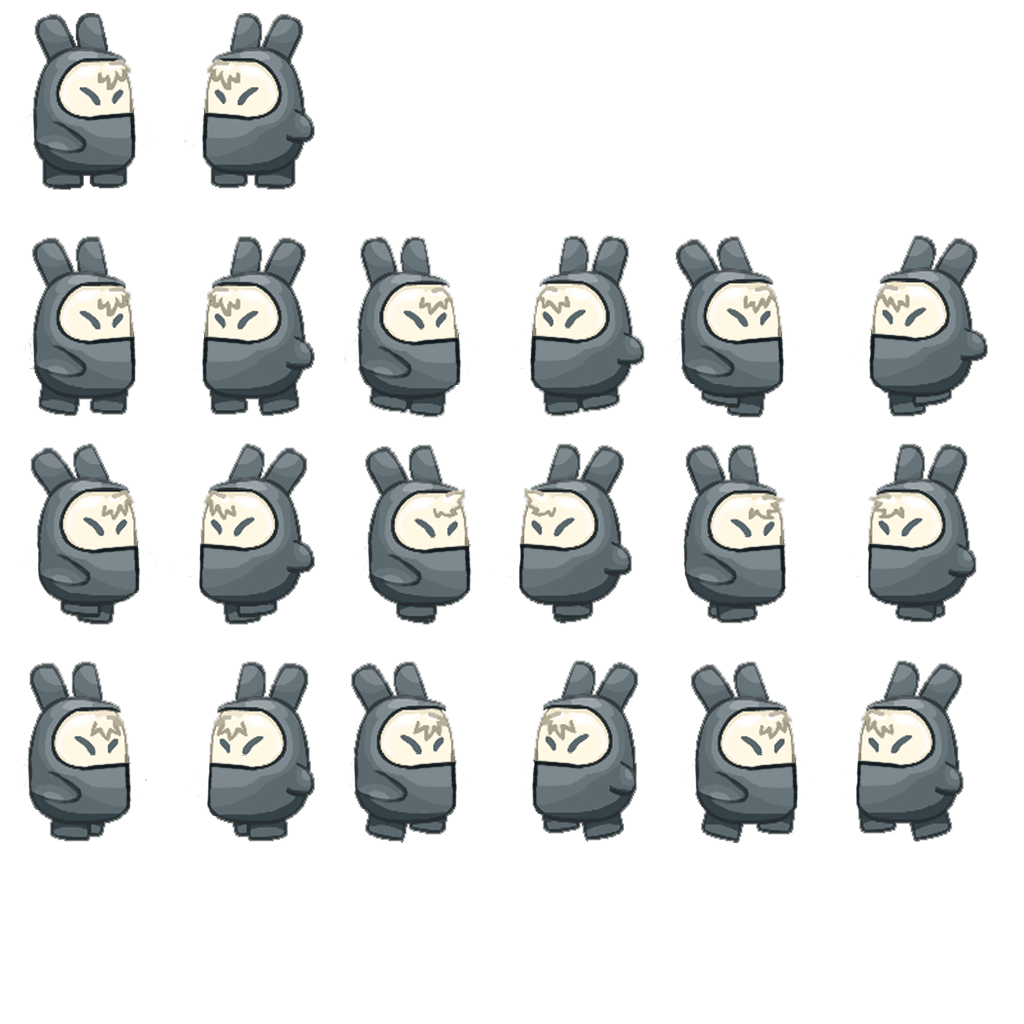
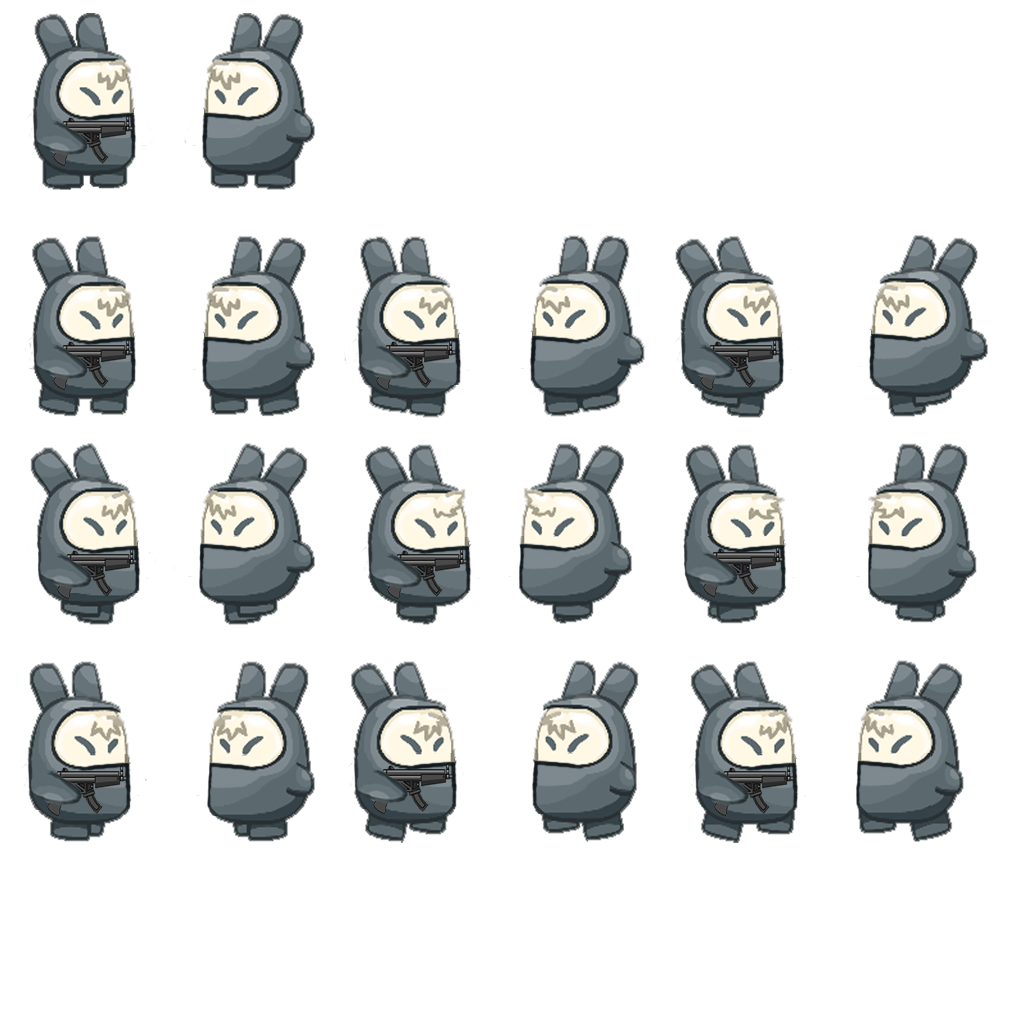
Added new gun

diff --git a/core/src/com/cypress/GameObjects/Bullet.kt b/core/src/com/cypress/GameObjects/Bullet.kt
@@ -34,7 +34,8 @@ public class Bullet(private val character : Character) {
             assets.gunsNames[2] -> {startPos.y += 80; bounds.setSize(50f, 26f)}
             assets.gunsNames[3] -> {startPos.y += 80; bounds.setSize(52f, 16f)}
             assets.gunsNames[4] -> {startPos.y += 75; bounds.setSize(52f, 38f)}
-            assets.gunsNames[5] -> {startPos.y += 85; bounds.setSize(128f, 32f)}
+            assets.gunsNames[5] -> {startPos.y += 55; bounds.setSize(50f, 26f)}
+            assets.gunsNames[6] -> {startPos.y += 85; bounds.setSize(128f, 32f)}
         }
 
         if (character.shouldGoToRight || character.stayRight) {
@@ -44,7 +45,8 @@ public class Bullet(private val character : Character) {
                 assets.gunsNames[2] -> {startPos.x += 200; bounds.setSize(50f, 26f)}
                 assets.gunsNames[3] -> {startPos.x += 175; bounds.setSize(52f, 16f)}
                 assets.gunsNames[4] -> {startPos.x += 170; bounds.setSize(52f, 38f)}
-                assets.gunsNames[5] -> {startPos.x += 160; bounds.setSize(128f, 32f)}
+                assets.gunsNames[5] -> {startPos.x += 160; bounds.setSize(50f, 26f)}
+                assets.gunsNames[6] -> {startPos.x += 160; bounds.setSize(128f, 32f)}
             }
             direction = 15f
 
@@ -52,7 +54,7 @@ public class Bullet(private val character : Character) {
             shotgunBullet   = TextureRegion(assets.bullets, 0, 37, 50, 42)
             rifleBullet     = TextureRegion(assets.bullets, 0, 88, 50, 26)
             plasmagunBullet = TextureRegion(assets.bullets, 0, 121, 52, 16)
-            lasergunBullet = TextureRegion(assets.bullets, 0, 145, 52, 38)
+            lasergunBullet  = TextureRegion(assets.bullets, 0, 145, 52, 38)
             rocket          = TextureRegion(assets.bullets, 0, 188, 128, 32)
         }
         else {
@@ -62,7 +64,8 @@ public class Bullet(private val character : Character) {
                 assets.gunsNames[2] -> {startPos.x -= 60; bounds.setSize(50f, 26f)}
                 assets.gunsNames[3] -> {startPos.x -= 65; bounds.setSize(52f, 16f)}
                 assets.gunsNames[4] -> {startPos.x -= 65; bounds.setSize(52f, 38f)}
-                assets.gunsNames[5] -> {startPos.x -= 105; bounds.setSize(128f, 32f)}
+                assets.gunsNames[5] -> {startPos.x -= 80; bounds.setSize(50f, 26f)}
+                assets.gunsNames[6] -> {startPos.x -= 105; bounds.setSize(128f, 32f)}
             }
             startPos.y -= 5
             direction = -15f
@@ -71,7 +74,7 @@ public class Bullet(private val character : Character) {
             shotgunBullet   = TextureRegion(assets.bullets, 78, 37, 50, 42)
             rifleBullet     = TextureRegion(assets.bullets, 78, 88, 50, 26)
             plasmagunBullet = TextureRegion(assets.bullets, 76, 121, 52, 16)
-            lasergunBullet = TextureRegion(assets.bullets, 76, 145, 52, 38)
+            lasergunBullet  = TextureRegion(assets.bullets, 76, 145, 52, 38)
             rocket          = TextureRegion(assets.bullets, 0, 224, 128, 32)
         }
 
@@ -95,7 +98,8 @@ public class Bullet(private val character : Character) {
             assets.gunsNames[2] -> batcher.draw(rifleBullet, position.x, position.y, 25f, 13f)
             assets.gunsNames[3] -> batcher.draw(plasmagunBullet, position.x, position.y, 26f, 8f)
             assets.gunsNames[4] -> batcher.draw(lasergunBullet, position.x, position.y, 26f, 16f)
-            assets.gunsNames[5] -> batcher.draw(rocket, position.x, position.y, 85f, 21f)
+            assets.gunsNames[5] -> batcher.draw(rifleBullet, position.x, position.y, 25f, 13f)
+            assets.gunsNames[6] -> batcher.draw(rocket, position.x, position.y, 85f, 21f)
         }
         batcher.end()
     }

diff --git a/core/src/com/cypress/CGHelpers/AssetLoader.kt b/core/src/com/cypress/CGHelpers/AssetLoader.kt
@@ -20,10 +20,11 @@ public class AssetLoader {
 
     public val levelsBG     = Array(9, { LinkedList<Texture?>() })
     public val levelsFP     = Array(9, { LinkedList<Texture?>() })
-    public val gunsNames    = arrayOf("uzi", "shotgun", "assaultRiffle", "plasmagun", "lasergun", "rocketLauncher")
+    public val gunsNames    = arrayOf("uzi", "shotgun", "assaultRiffle", "plasmagun",
+                                      "lasergun", "minigun", "rocketLauncher")
     public val bulletsList  = LinkedList<Bullet>()
-    public val maxCapacity  = arrayOf(30, 8, 45, 25, 20, 1)
-    public val bulletDamage = arrayOf(10, 20, 15, 20, 30, 40)
+    public val maxCapacity  = arrayOf(30, 8, 45, 25, 20, 100, 1)
+    public val bulletDamage = arrayOf(10, 20, 15, 20, 30, 15, 40)
 
     public var manager  : AssetManager = AssetManager()
 
@@ -45,7 +46,7 @@ public class AssetLoader {
     public var reload      : Sound? = null
 
     public var levelsMusic = Array<Music?>(9, { null })
-    public var shot        = Array<Sound?>(6, { null })
+    public var shot        = Array<Sound?>(7, { null })
     public var musicOn     = true
     public var language    = "english"
     public var zoom        = 1.25f
@@ -96,7 +97,8 @@ public class AssetLoader {
         shot[2]   = manager.get("data/sounds/weapons/uzi.ogg")
         shot[3]   = manager.get("data/sounds/weapons/lasergun.ogg")
         shot[4]   = manager.get("data/sounds/weapons/lasergun.ogg")
-        shot[5]   = manager.get("data/sounds/weapons/rocket.ogg")
+        shot[5]   = manager.get("data/sounds/weapons/uzi.ogg")
+        shot[6]   = manager.get("data/sounds/weapons/rocket.ogg")
         reload    = manager.get("data/sounds/weapons/reload.ogg")
     }
 

diff --git a/core/src/com/cypress/GameObjects/Gun.kt b/core/src/com/cypress/GameObjects/Gun.kt
@@ -18,6 +18,8 @@ public class Gun(private val character : Character, private var type : String) {
     private val plasmagunLeft       = TextureRegion(assets.guns, 223, 250, 178, 86)
     private val lasergunRight       = TextureRegion(assets.guns, 7, 348, 183, 93)
     private val lasergunLeft        = TextureRegion(assets.guns, 221, 348, 183, 93)
+    private val minigunRight        = TextureRegion(assets.guns, 14, 543, 180, 69)
+    private val minigunLeft         = TextureRegion(assets.guns, 232, 543, 180, 69)
     private val rocketLauncherRight = TextureRegion(assets.guns, 7, 456, 188, 73)
     private val rocketLauncherLeft  = TextureRegion(assets.guns, 222, 456, 188, 73)
 
@@ -64,6 +66,12 @@ public class Gun(private val character : Character, private var type : String) {
                     batcher.draw(lasergunLeft, x - 50, y + 20, 183f, 93f)
             }
             assets.gunsNames[5] -> {
+                if (character.shouldGoToRight || character.stayRight)
+                    batcher.draw(minigunRight, x + 5, y + 40, 180f, 69f)
+                else
+                    batcher.draw(minigunLeft, x - 65, y + 35, 180f, 69f)
+            }
+            assets.gunsNames[6] -> {
                 if (character.shouldGoToRight || character.stayRight)
                     batcher.draw(rocketLauncherRight, x - 5, y + 50, 188f, 73f)
                 else

diff --git a/core/src/com/cypress/GameObjects/Player.kt b/core/src/com/cypress/GameObjects/Player.kt
@@ -32,8 +32,8 @@ public class Player(override val position : Vector2, override protected  val wid
     public override var onGround        = false
     public override var gunType         = assets.gunsNames[0]
 
-    public val availableGuns = Array(6, { false })
-    public val ammoCounter   = Array(6, { Pair(0, 0) })
+    public val availableGuns = Array(7, { false })
+    public val ammoCounter   = Array(7, { Pair(0, 0) })
 
     public var lives = 2
 
@@ -60,11 +60,15 @@ public class Player(override val position : Vector2, override protected  val wid
         playerGoesLeft.playMode = Animation.PlayMode.LOOP_PINGPONG
 
         availableGuns[0] = true
+        availableGuns[1] = true
         availableGuns[2] = true
         availableGuns[4] = true
+        availableGuns[5] = true
         ammoCounter[0] = Pair(assets.maxCapacity[0], 30)
-        ammoCounter[2] = Pair(assets.maxCapacity[0], 300)
-        ammoCounter[4] = Pair(assets.maxCapacity[0], 15)
+        ammoCounter[1] = Pair(assets.maxCapacity[1], 30)
+        ammoCounter[2] = Pair(assets.maxCapacity[2], 300)
+        ammoCounter[4] = Pair(assets.maxCapacity[4], 15)
+        ammoCounter[5] = Pair(assets.maxCapacity[5], 50)
     }
 
     /** Updates position of player. */

diff --git a/core/src/com/cypress/GameObjects/Warrior.kt b/core/src/com/cypress/GameObjects/Warrior.kt
@@ -26,8 +26,8 @@ class Warrior(override val position : Vector2, override protected  val width : I
     public override var onGround        = true
     public override var gunType         = "uzi"
 
-    private val assets = AssetLoader.getInstance()
-    private val gun    = Gun(this, assets.gunsNames[0])
+    private val assets  = AssetLoader.getInstance()
+    private val uziLeft = TextureRegion(assets.guns, 281, 95, 90, 58)
 
     private var warriorGoesLeft  = Animation(0.1f, Array<TextureRegion>())
     private var warriorGoesRight = Animation(0.1f, Array<TextureRegion>())
@@ -109,10 +109,10 @@ class Warrior(override val position : Vector2, override protected  val width : I
 
     /** Draws warrior. */
     public fun draw(delta: Float, batcher : SpriteBatch) {
-        gun.update(gunType)
-        gun.draw(delta, batcher)
-
         batcher.begin()
+
+        if (shouldGoToLeft || !stayRight)
+            batcher.draw(uziLeft, position.x - 55, position.y + 25, 90f, 58f)
 
         // warrior should stay still ...
         if (!shouldGoToLeft && !shouldGoToRight) {

diff --git a/core/src/com/cypress/CGHelpers/Controls.kt b/core/src/com/cypress/CGHelpers/Controls.kt
@@ -217,7 +217,8 @@ public class Controls(val game : CGGame, val player : Player) {
                 assets.gunsNames[2] -> Image(TextureRegion(assets.guns, 409, 17, 80, 55))
                 assets.gunsNames[3] -> Image(TextureRegion(assets.guns, 415, 261, 80, 55))
                 assets.gunsNames[4] -> Image(TextureRegion(assets.guns, 418, 358, 80, 55))
-                assets.gunsNames[5] -> Image(TextureRegion(assets.guns, 424, 452, 80, 55))
+                assets.gunsNames[5] -> Image(TextureRegion(assets.guns, 422, 545, 80, 55))
+                assets.gunsNames[6] -> Image(TextureRegion(assets.guns, 424, 452, 80, 55))
                 else                -> Image(TextureRegion(assets.guns, 410, 87, 80, 55))
             }
         gunIcon.setPosition(75f, 390f)
